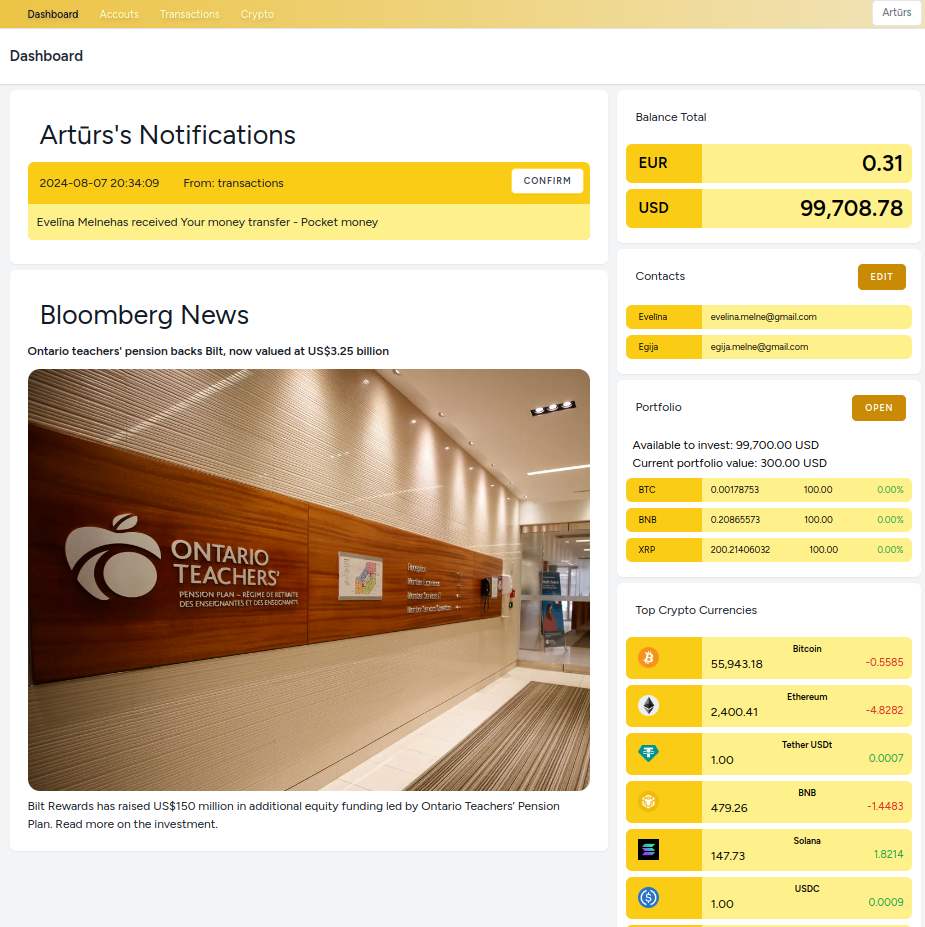
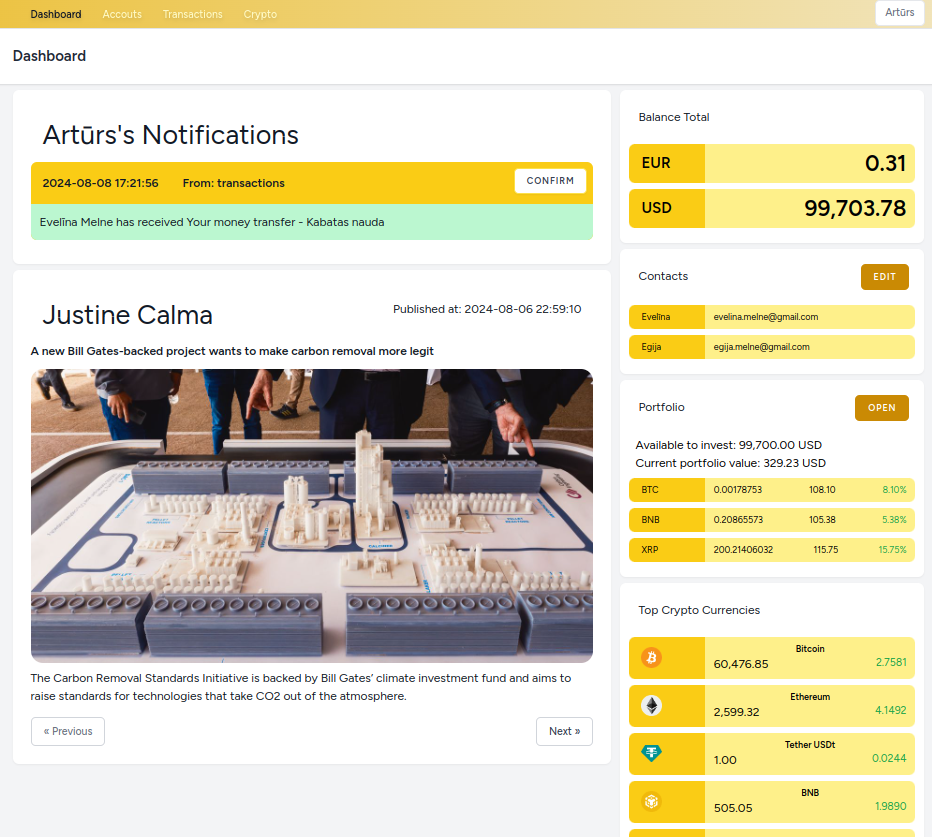
update readme update seeder add NewsFactory

diff --git a/database/seeders/DatabaseSeeder.php b/database/seeders/DatabaseSeeder.php
@@ -3,6 +3,7 @@
 namespace Database\Seeders;
 
 use App\Models\Account;
+use App\Models\NewsArticle;
 use App\Models\User;
 // use Illuminate\Database\Console\Seeds\WithoutModelEvents;
 use Illuminate\Database\Seeder;
@@ -15,9 +16,7 @@ class DatabaseSeeder extends Seeder
      */
     public function run(): void
     {
-        // User::factory(10)->create();
-
-        User::factory()->create([
+        $user1 = User::factory()->create([
             'first_name' => 'Artūrs',
             'last_name' => 'Melnis',
             'email' => 'artmelnis@gmail.com',
@@ -25,15 +24,7 @@ class DatabaseSeeder extends Seeder
             'default_account' => null,
             'password' => Hash::make('qwerty123'),
         ]);
-        User::factory()->create([
-            'first_name' => 'Egija',
-            'last_name' => 'Melne',
-            'email' => 'egija.melne@gmail.com',
-            'type' => 'business',
-            'default_account' => null,
-            'password' => Hash::make('qwerty123'),
-        ]);
-        User::factory()->create([
+        $user2 = User::factory()->create([
             'first_name' => 'Evelīna',
             'last_name' => 'Melne',
             'email' => 'evelina.melne@gmail.com',
@@ -41,14 +32,18 @@ class DatabaseSeeder extends Seeder
             'default_account' => null,
             'password' => Hash::make('qwerty123'),
         ]);
-        User::factory()->create([
-            'first_name' => 'Pāvels',
-            'last_name' => 'Melnis',
-            'email' => 'pavels.melne@gmail.com',
-            'type' => 'private',
-            'default_account' => null,
-            'password' => Hash::make('qwerty123'),
+        $account1 = Account::factory()->create([
+            'user_id' => $user1->id,
         ]);
-        Account::factory(10)->create();
+        $account2 = Account::factory()->create([
+            'user_id' => $user2->id,
+        ]);
+        $user1->update([
+            'default_account' => $account1->id,
+        ]);
+        $user2->update([
+            'default_account' => $account2->id,
+        ]);
+        NewsArticle::factory(2)->create();
     }
 }

diff --git a/database/factories/NewsFactory.php b/database/factories/NewsFactory.php
@@ -1,0 +1,30 @@
+<?php
+
+namespace Database\Factories;
+
+use Illuminate\Database\Eloquent\Factories\Factory;
+
+/**
+ * @extends \Illuminate\Database\Eloquent\Factories\Factory<\App\Models\Model>
+ */
+class NewsFactory extends Factory
+{
+    /**
+     * Define the model's default state.
+     *
+     * @return array<string, mixed>
+     */
+    public function definition(): array
+    {
+        return [
+            'source' => $this->faker->company(),
+            'title' => $this->faker->sentence(),
+            'author' => $this->faker->name(),
+            'url' => $this->faker->url(),
+            'description' => $this->faker->text(),
+            'content' => $this->faker->text(),
+            'image' => $this->faker->imageUrl(),
+            'published_at' => $this->faker->dateTime(),
+        ];
+    }
+}

diff --git a/readme.md b/readme.md
@@ -56,5 +56,6 @@ Commands: <br>
 
 <h2 align="center">.ENV</h2>
 <p>Make sure to add Your CoinMarketCap API key to COINMC value. App can work without API key by utilizing CoinPaprika as failsafe method. However in order to load crypto logo images, You must use CoinMarketCap API.</p>
+<p>For News to work You need to add NewsAPI key to NEWSAPI variable. You can obtain one from <a href="https://newsapi.org/">https://newsapi.org/</a></p>
 
 -- END of readme.md --
